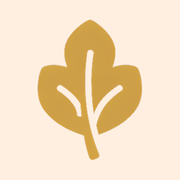
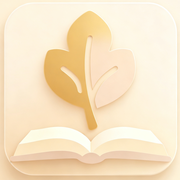
换 App 与站点图标为新版（CACHE v72→v73）
- assets/icon-192 / icon-512 / apple-touch-icon / favicon 换成作者新版
- 源图 1024×1058 居中裁成 1024 方形，未重绘、未补角（保留原设计的光照与圆角）
- CACHE 必须 +1：favicon.png 在 PRECACHE 里，字节变了就是预缓存变了
- APK 侧 mipmap / adaptive foreground 与 versionCode 随 v1.9.1 一起发布

diff --git a/sw.js b/sw.js
@@ -46,8 +46,18 @@
  * 指向 `?v=121`，而那些键只有在 TTL 自愈时才会被换掉，于是**离线读者长期看到
  * 「旧版居中弹窗 + 新 JS」的组合，而且不会自愈**，直到下一次有人升 CACHE。
  * 换句话说：**判断依据是「PRECACHE 里的字节变没变」，不是「功能代码在哪个文件」。**
+ *
+ * v73（2026-11-08 · 换 App / 站点图标）：PRECACHE 条目一个没增删，但 **CACHE 必须升**。
+ * （v70→v72 之间是「第八章·前奏」「第九章·旧钢笔」两次上线占用的号，此处只记判断，
+ *   中间版本号不逐条补写。）
+ * 这次只换了图标（`/favicon.png` 与 `assets/` 下的 icon-192 / icon-512 /
+ * apple-touch-icon），而 `/favicon.png` 就在 PRECACHE 里 —— 它的字节变了，就是
+ * 「预缓存的内容变了」。不升的话老用户 SW 不会重新 install，断网时 favicon 仍是
+ * 旧图；更关键的是同一批改动的 `app/linyuan-latest.apk` 已经是新图标，
+ * 站点与安装包会长期对不上，且没有任何报错。
+ * 图标引用不带 `?v=`（浏览器按自身策略刷新），所以本次 `?v=` 一律不动（沿用远端现值 127）。
  */
-var CACHE = 'linyuan-v72';
+var CACHE = 'linyuan-v73';
 
 /**
  * 缓存条目的「自愈 TTL」：超过这个年龄的缓存命中，会在后台补一次刷新。
